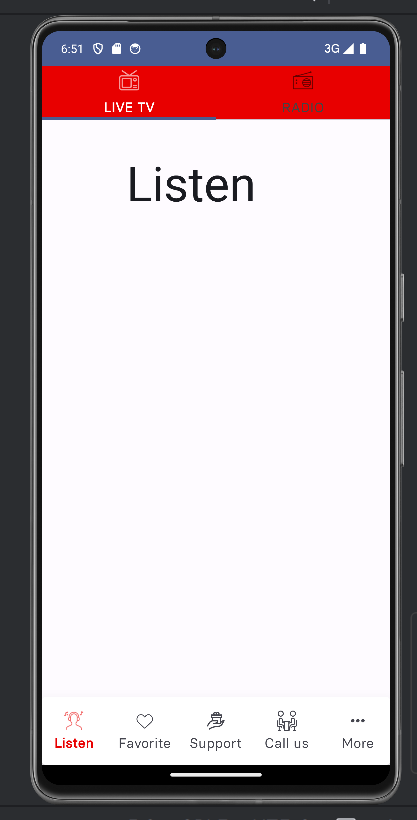
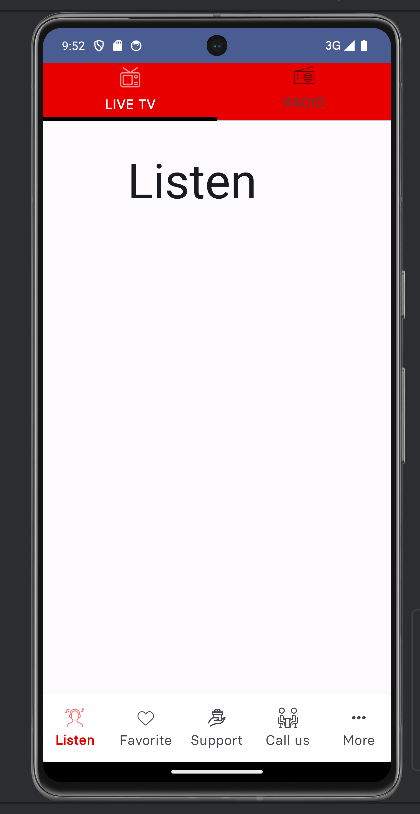
updated README.md

Changed region(s): [[0.0624, 0.0, 0.9664, 1.0], [0.3118, 0.215, 0.6235, 0.2457]]

diff --git a/app/src/main/java/com/mozeago/youtubestudio/ui/components/ListenTopTabRow.kt b/app/src/main/java/com/mozeago/youtubestudio/ui/components/ListenTopTabRow.kt
@@ -2,7 +2,9 @@ package com.mozeago.youtubestudio.ui.components
 
 import android.os.Build
 import androidx.annotation.RequiresApi
+import androidx.compose.foundation.background
 import androidx.compose.foundation.layout.Arrangement
+import androidx.compose.foundation.layout.Box
 import androidx.compose.foundation.layout.Column
 import androidx.compose.foundation.layout.Spacer
 import androidx.compose.foundation.layout.height
@@ -11,6 +13,7 @@ import androidx.compose.material3.Icon
 import androidx.compose.material3.MaterialTheme
 import androidx.compose.material3.Tab
 import androidx.compose.material3.TabRow
+import androidx.compose.material3.TabRowDefaults.tabIndicatorOffset
 import androidx.compose.material3.Text
 import androidx.compose.runtime.Composable
 import androidx.compose.runtime.mutableIntStateOf
@@ -36,7 +39,17 @@ fun ListenTopTabRow(modifier: Modifier = Modifier) {
         selectedTabIndex = selectedTabIndex.intValue,
         modifier = modifier
             .padding(bottom = 16.dp),
-        containerColor = Color(0XFFE80000)
+        containerColor = Color(0XFFE80000),
+        indicator = { indicator ->
+            if (selectedTabIndex.intValue < indicator.size) {
+                Box(
+                    modifier = Modifier
+                        .tabIndicatorOffset(indicator[selectedTabIndex.intValue])
+                        .height(5.dp)
+                        .background(Color.Black)
+                )
+            }
+        }
     ) {
         Tab(
             selected = true,
@@ -73,8 +86,8 @@ fun ListenTopTabRow(modifier: Modifier = Modifier) {
                         Font(R.font.basier_square_regular)
                     )
                 )
-                Spacer(modifier = Modifier.height(5.dp))
             }
+            Spacer(modifier = Modifier.height(10.dp))
         }
         Tab(
             selected = true,
@@ -88,24 +101,30 @@ fun ListenTopTabRow(modifier: Modifier = Modifier) {
             }
 
         ) {
-            Icon(
-                painter = painterResource(id = R.drawable.ic_radio),
-                contentDescription = "radio"
-            )
-            Spacer(modifier = Modifier.height(10.dp))
-            Text(
-                text = stringResource(id = R.string.app_radio).uppercase(),
-                style = MaterialTheme.typography.bodyMedium,
-                fontWeight = if (selectedTabIndex.intValue == 1)
-                    FontWeight.Bold else
-                    FontWeight.Normal,
-                fontSize = 16.sp,
-                lineHeight = 24.sp,
-                color = if (selectedTabIndex.intValue == 1) Color.White else Color.DarkGray,
-                fontFamily = FontFamily(
-                    Font(R.font.basier_square_regular)
+            Column(
+                verticalArrangement = Arrangement.Center,
+                horizontalAlignment = Alignment.CenterHorizontally
+            ) {
+                Icon(
+                    painter = painterResource(id = R.drawable.ic_radio),
+                    contentDescription = "radio"
                 )
-            )
+                Spacer(modifier = Modifier.height(10.dp))
+                Text(
+                    text = stringResource(id = R.string.app_radio).uppercase(),
+                    style = MaterialTheme.typography.bodyMedium,
+                    fontWeight = if (selectedTabIndex.intValue == 1)
+                        FontWeight.Bold else
+                        FontWeight.Normal,
+                    fontSize = 16.sp,
+                    lineHeight = 24.sp,
+                    color = if (selectedTabIndex.intValue == 1) Color.White else Color.DarkGray,
+                    fontFamily = FontFamily(
+                        Font(R.font.basier_square_regular)
+                    )
+                )
+            }
+            Spacer(modifier = Modifier.height(10.dp))
         }
     }
 }
